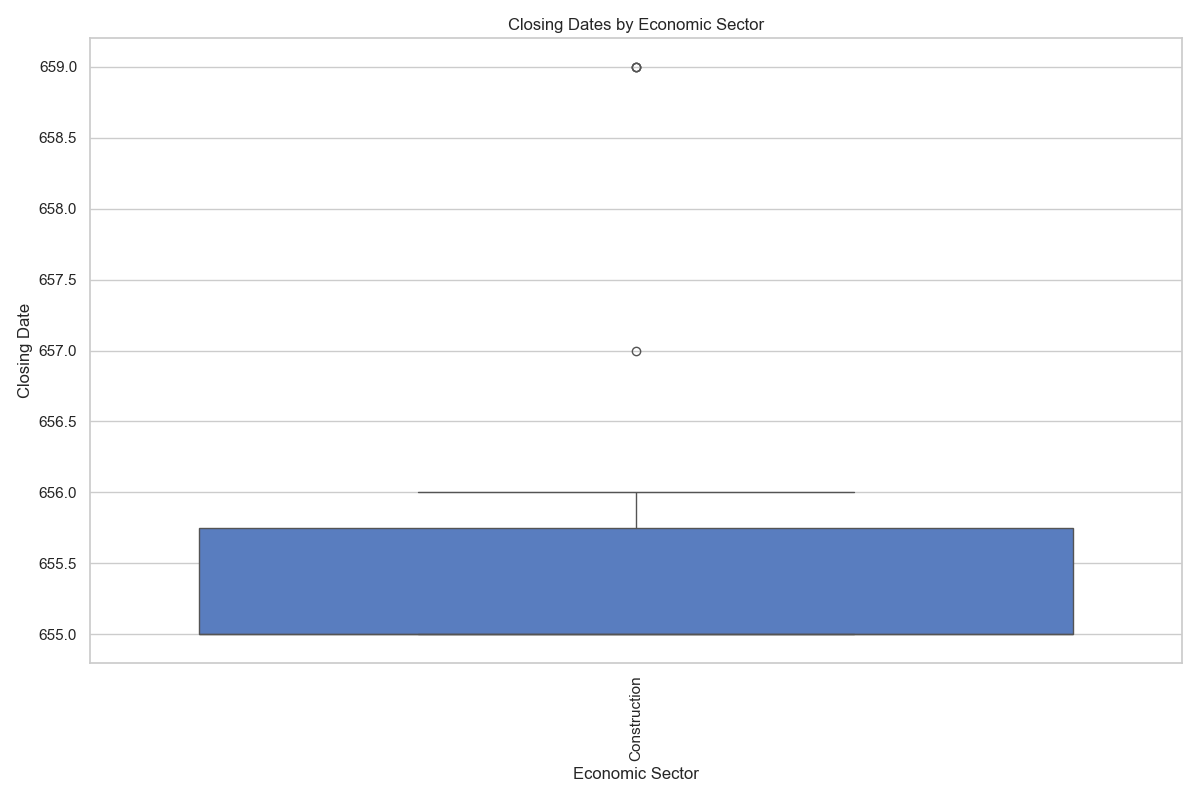
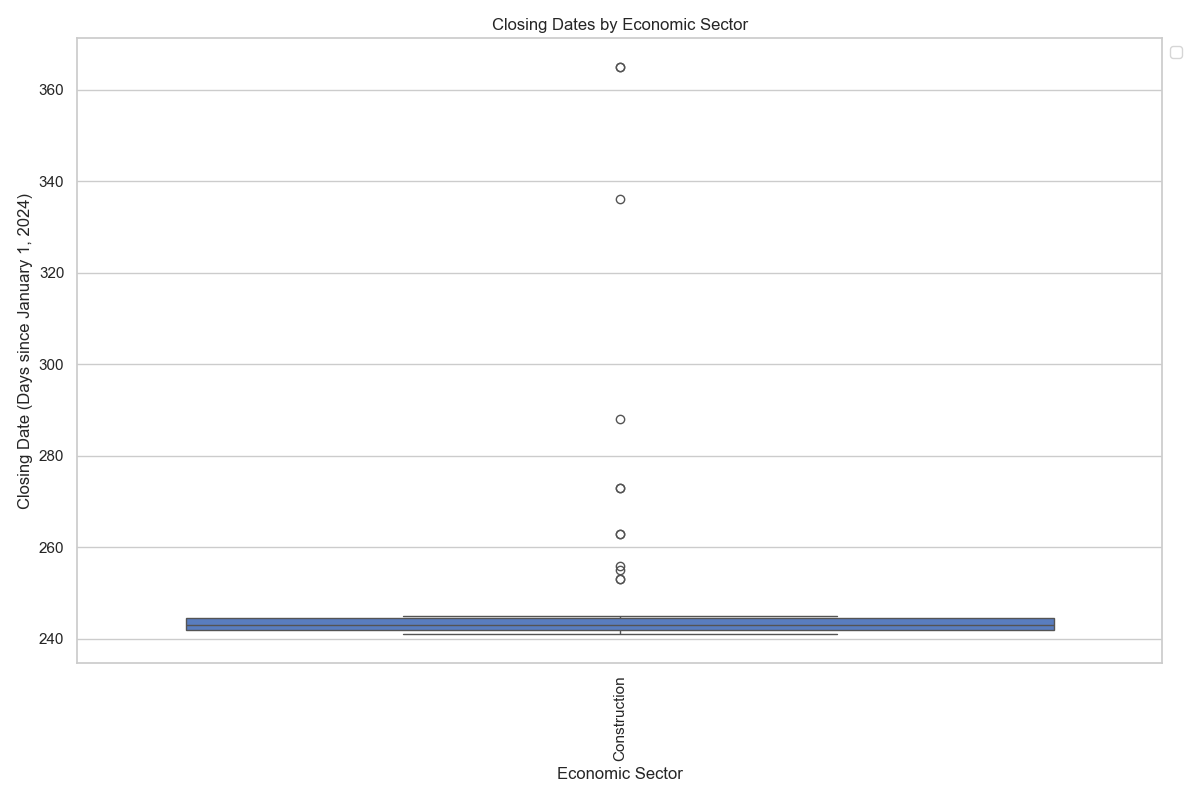
modified:   job_data_visualizations.py 	modified:   plots/box_plot_closing_dates_by_sector.png 	modified:   plots/closing_date_frequency.png 	modified:   plots/correlation_matrix.png 	deleted:    plots/job_distribution_by_company.png 	deleted:    plots/job_titles_by_company.png 	modified:   plots/pa

diff --git a/job_data_visualizations.py b/job_data_visualizations.py
@@ -15,8 +15,13 @@ data = data.dropna(subset=['Title', 'Company', 'Country'])
 
 # Convert 'Closing Date' to datetime and handle errors
 data['Closing Date'] = pd.to_datetime(data['Closing Date'], format='%d/%m/%Y', errors='coerce')
-data['Closing Date'] = data['Closing Date'].dt.to_period('M')  # Convert to monthly frequency
-data['Closing Date Numeric'] = pd.to_numeric(data['Closing Date'].astype(int), errors='coerce')
+
+# Drop rows where 'Closing Date' could not be parsed
+data = data.dropna(subset=['Closing Date'])
+
+# Convert 'Closing Date' to numeric form (days since January 1, 2024)
+reference_date = pd.Timestamp("2024-01-01")
+data['Closing Date Numeric'] = (data['Closing Date'] - reference_date) // pd.Timedelta('1D')
 
 # Get the directory of the current script
 script_dir = os.path.dirname(__file__)
@@ -59,11 +64,11 @@ plt.savefig(os.path.join(plot_dir, 'job_locations_distribution.png'))
 plt.close()
 
 # Plot 4: Closing Date Frequency
-closing_date_counts = data['Closing Date'].value_counts().sort_index()
+closing_date_counts = data['Closing Date'].dt.to_period('M').value_counts().sort_index()
 plt.figure(figsize=(12, 6))
 closing_date_counts.plot(kind='bar', color='teal')
 plt.title('Job Posting Closing Dates Frequency')
-plt.xlabel('Month')
+plt.xlabel('Closing Date')
 plt.ylabel('Number of Jobs')
 plt.xticks(rotation=45)
 plt.tight_layout()
@@ -82,7 +87,7 @@ plt.savefig(os.path.join(plot_dir, 'heatmap_job_counts.png'))
 plt.close()
 
 # Plot 6: Job Title Length Distribution
-data['Title Length'] = data['Title'].apply(lambda x: len(x) if x != 'nan' else 0)
+data['Title Length'] = data['Title'].apply(len)
 plt.figure(figsize=(10, 6))
 sns.histplot(data['Title Length'], kde=True, color='orange')
 plt.title('Job Title Length Distribution')
@@ -102,18 +107,19 @@ plt.close()
 
 # Plot 8: Box Plot for Closing Dates by Economic Sector
 plt.figure(figsize=(12, 8))
-sns.boxplot(data=data, x='Economic Sector', y='Closing Date Numeric', palette='muted', hue='Economic Sector', legend=False)
+sns.boxplot(data=data, x='Economic Sector', y='Closing Date Numeric', palette='muted', hue='Economic Sector')
 plt.title('Closing Dates by Economic Sector')
 plt.xlabel('Economic Sector')
-plt.ylabel('Closing Date')
+plt.ylabel('Closing Date (Days since January 1, 2024)')
 plt.xticks(rotation=90)
+plt.legend(loc='upper left', bbox_to_anchor=(1, 1))
 plt.tight_layout()
 plt.savefig(os.path.join(plot_dir, 'box_plot_closing_dates_by_sector.png'))
 plt.close()
 
 # Plot 9: FacetGrid for Job Distribution by Company and Country
 g = sns.FacetGrid(data, col='Company', col_wrap=4, height=5, aspect=1.5)
-g.map(sns.countplot, 'Country', palette='husl')
+g.map(sns.countplot, 'Country', palette='husl', order=data['Country'].value_counts().index)
 g.set_titles(col_template="{col_name}")
 g.set_axis_labels('Country', 'Number of Jobs')
 g.tight_layout()
@@ -136,7 +142,7 @@ plt.figure(figsize=(10, 6))
 sns.regplot(data=data, x='Title Length', y='Closing Date Numeric', scatter_kws={'s':50}, line_kws={'color':'red'})
 plt.title('Job Title Length vs. Closing Date')
 plt.xlabel('Title Length')
-plt.ylabel('Closing Date')
+plt.ylabel('Closing Date (Days since January 1, 2024)')
 plt.tight_layout()
 plt.savefig(os.path.join(plot_dir, 'scatter_plot_title_length_vs_closing_date.png'))
 plt.close()
@@ -176,14 +182,14 @@ sns.scatterplot(data=data, x='Title Length', y='Closing Date Numeric', color='bl
 plt.plot(data['Title Length'], predictions, color='red', linewidth=2)
 plt.title('Predictive Analysis: Closing Date vs. Job Title Length')
 plt.xlabel('Job Title Length')
-plt.ylabel('Closing Date')
+plt.ylabel('Closing Date (Days since January 1, 2024)')
 plt.tight_layout()
 plt.savefig(os.path.join(plot_dir, 'predictive_analysis_closing_date_vs_title_length.png'))
 plt.close()
 
 # Plot 15: Trend Analysis - Job Posting Closing Dates Over Time
 plt.figure(figsize=(12, 6))
-trend_data = data.groupby('Closing Date').size()
+trend_data = data['Closing Date'].dt.to_period('M').value_counts().sort_index()
 trend_data.plot(kind='line', marker='o', color='green')
 plt.title('Trend Analysis: Job Posting Closing Dates Over Time')
 plt.xlabel('Closing Date')
@@ -206,7 +212,7 @@ plt.close()
 
 # Plot 17: Correlation Matrix Plot
 plt.figure(figsize=(10, 6))
-correlation_matrix = data.corr(numeric_only=True)
+correlation_matrix = data[['Title Length', 'Closing Date Numeric']].corr()
 sns.heatmap(correlation_matrix, annot=True, cmap='coolwarm', fmt='.2f')
 plt.title('Correlation Matrix')
 plt.tight_layout()
